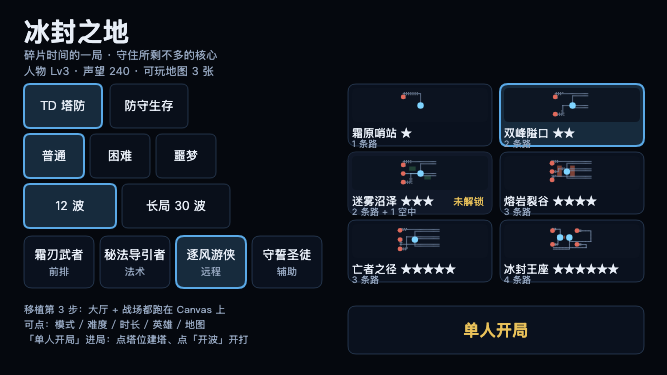
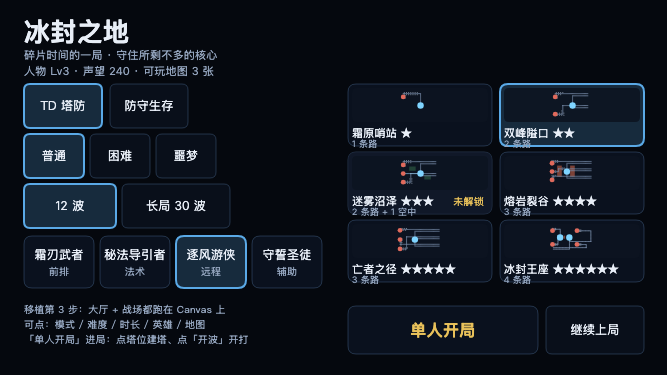
feat(minigame): 「继续上局」——把 §10.3 的随时能停接到小游戏（第 3 步第七屏）
- 三处接线：tick 里每 5 秒自动存档（结算中的局不存）+ platform.onHide 补一笔 + 大厅有存档时给「继续上局」
- 与浏览器版对齐两条口径：一局结束收掉存档、回大厅=主动放弃；存档读不出来时清掉并说一句（不留死按钮）
- 同源问题第三次出现（前两次：不记档、没传人物等级便利），所以这次按「列出所有调用点」查
- 测试坑：delete require.cache 对 ESM 无效（包被 require 时走 ESM 注册表）→ 复制成新文件名再 require 才拿到新实例
- tests/minigame-resume.test.js 3 条（布局/意图/真闭环：6 秒自动存 → 切后台 → 重开 → 接着打 → 打完收档）
- npm test 287 → 290 项；主包 15 模块 / 318 KB；本轮没碰浏览器侧代码

Changed region(s): [[0.5997, 0.8507, 0.8096, 0.9093], [0.8396, 0.8507, 0.9295, 0.9093]]

diff --git a/src/minigame/game.js b/src/minigame/game.js
@@ -12,7 +12,8 @@ import {
   towerAtSlot, update, upgradeTower, usePotion,
 } from '../match.js';
 import { createDefenseMatch, describeDefense, updateDefense } from '../defense.js';
-import { isMiniGame, onTouch, storage, viewport } from '../platform.js';
+import { isMiniGame, onHide, onTouch, storage, viewport } from '../platform.js';
+import { clearSave, hasSave, loadFromStorage, saveToStorage } from '../save.js';
 import {
   loadProfile, mapLocked, recordResult, reviveMulOf, saveProfile, startGoldOf, unlockedMaps,
 } from '../profile.js';
@@ -55,6 +56,9 @@ export function createLobbyModel(profile = loadProfile()) {
     lockedReason: locked,
     unlockedCount: new Set([...unlockedTd, ...unlockedDef]).size,
     canStart: true,
+    // §10.3「随时能停」：有存档就多给一个「继续上局」入口（浏览器版 576 行那条同源）
+    canContinue: hasSave(),
+    continueLabel: '继续上局',
     hint: null,
   };
 }
@@ -137,6 +141,7 @@ export function startMinigame({ requestAnimationFrame: raf = globalThis.requestA
       ui: { selectedSlot: null, panelSlot: null, sellArmed: false },
       extra: null,     // 结算那一下记档的收获（声望 / 升级），画面板用
       paused: false, rate: 1,
+      saveClock: 0,    // §10.3 单人局自动存档：每 5 秒一次 + 切后台补一次
     };
     applyCamera(b);
     b.model = () => ({
@@ -150,6 +155,7 @@ export function startMinigame({ requestAnimationFrame: raf = globalThis.requestA
 
   const backToLobby = () => {
     battle = null;
+    clearSave();   // 回大厅 = 主动放弃这一局（与浏览器版同一个口径：大厅不会出现「继续上局」）
     lobby = { model: { ...createLobbyModel(), ...pickLobbyKeys(lobby.model) }, layout: null };
     lobby.layout = layoutLobby(size.width, size.height, lobby.model);
   };
@@ -317,7 +323,36 @@ export function startMinigame({ requestAnimationFrame: raf = globalThis.requestA
     if (next !== lobby.model) lobby.model = next;
     lobby.layout = layoutLobby(size.width, size.height, lobby.model);
     if (action?.type === 'start' && lobby.model.canStart !== false) startMatch();
+    if (action?.type === 'continue') continueSaved();
     return action;
+  };
+
+  /**
+   * 「继续上局」：把存档读回来装进战场（§10.3 单人局无限期可恢复）。
+   * 读不出来（键在但版本/形状不对）时**不留一个点了没反应的按钮**——清掉它并说一句（§204 的口径）。
+   */
+  const continueSaved = () => {
+    const restored = loadFromStorage();
+    if (!restored) {
+      clearSave();
+      lobby.model = { ...lobby.model, canContinue: false, hint: '上一局的存档读不出来（版本或形状对不上），已清掉' };
+      lobby.layout = layoutLobby(size.width, size.height, lobby.model);
+      return null;
+    }
+    const renderer = createRenderer(canvas, { size: () => ({ w: size.width, h: size.height }) });
+    const b = {
+      m: restored, renderer, selectedTower: 'tw_arrow', message: '继续上一局', until: restored.time + 2,
+      layout: null, ui: { selectedSlot: null, panelSlot: null, sellArmed: false },
+      extra: restored.result ? {} : null, paused: false, rate: 1, saveClock: 0,
+    };
+    applyCamera(b);
+    b.model = () => ({
+      ...describeBattleModel(restored), selectedTower: b.selectedTower, paused: b.paused, rate: b.rate,
+      ui: b.ui, sheet: layoutSheet(restored, b.ui),
+    });
+    b.layout = layoutBattle(b.model());
+    battle = b;
+    return b;
   };
 
   onTouch((t) => {
@@ -330,6 +365,8 @@ export function startMinigame({ requestAnimationFrame: raf = globalThis.requestA
     tapBattle(battle, t.x, t.y);
     drawFrame();
   });
+  // 切后台 / 退出时补一笔存档（§10.3 的「随时能停」：小游戏是 wx.onHide）
+  onHide(() => { if (battle && !battle.m.result) saveToStorage(battle.m); });
 
   const drawFrame = () => {
     const { width, height } = viewport();
@@ -356,8 +393,18 @@ export function startMinigame({ requestAnimationFrame: raf = globalThis.requestA
     if (battle.paused || battle.m.result) return 0;   // 真暂停：内核一步都不走
     const steps = Math.round(seconds / TICK_STEP);
     for (let i = 0; i < steps && !battle.m.result; i += 1) update(battle.m, TICK_STEP);
+    maybeAutosave(battle, seconds);
     recordIfFinished(battle);
     return steps;
+  };
+
+  /** 自动存档（§10.3）：每 5 秒一次；已经在结算的那一局不存（§113：完结的局不该再出现「继续上局」） */
+  const maybeAutosave = (b, dt) => {
+    if (!b || b.m.result) return false;
+    b.saveClock = (b.saveClock ?? 0) + dt;
+    if (b.saveClock < 5) return false;
+    b.saveClock = 0;
+    return saveToStorage(b.m);
   };
 
   /**
@@ -376,6 +423,7 @@ export function startMinigame({ requestAnimationFrame: raf = globalThis.requestA
       unlocked: [...unlockedMaps(next, 'td'), ...unlockedMaps(next, 'defense')],
       unlockedCount: new Set([...unlockedMaps(next, 'td'), ...unlockedMaps(next, 'defense')]).size,
     };
+    clearSave();   // 一局结束就收掉存档：大厅不该再出现「继续上局」（浏览器版同源，main.js 的 maybeRecordResult）
     try { saveProfile(next); } catch { /* 存不了就只在这一次生效（§183 的提示在浏览器版那边） */ }
   };
 

diff --git a/tests/minigame-resume.test.js b/tests/minigame-resume.test.js
@@ -1,0 +1,91 @@
+// 小游戏的「继续上局」（§10.3「随时能停」）：自动存档 / 切后台补存 / 关掉再打开能接着打。
+// 存档本身是浏览器版现成的 `save.js`（序列化 + 反序列化 + hasSave 的「读得出来才算有」），
+// 这份用例盯的是**小游戏这条新路径有没有把三处接线接上**。
+import test from 'node:test';
+import assert from 'node:assert/strict';
+import { copyFileSync, mkdtempSync } from 'node:fs';
+import { createRequire } from 'node:module';
+import { tmpdir } from 'node:os';
+import { join } from 'node:path';
+
+import { installFakeWx } from '../tools/fake-wx.mjs';
+import { applyLobbyAction, layoutLobby } from '../src/minigame/lobby.js';
+import { emptyProfile } from '../src/profile.js';
+
+const OUT = mkdtempSync(join(tmpdir(), 'ff-mini-resume-'));
+process.env.FF_MINIGAME_OUT = OUT;
+
+/** 把打好的包复制成一个**新文件名**再 require：ESM 缓存按路径走，不换名就还是同一个模块实例 */
+const loadFreshApp = (require, n) => {
+  const p = join(OUT, `game-${n}.js`);
+  copyFileSync(join(OUT, 'game.js'), p);
+  require(p);
+  require(p);   // 同一份文件第二次 require 走缓存，都是同一个 app
+  return globalThis.__frostfallLobby;
+};
+
+const lobbyModel = (over = {}) => ({
+  mode: 'td', map: 'map_01', difficulty: 'normal', length: 'short', hero: 'hero_warrior',
+  profile: emptyProfile(), unlocked: ['map_01'], locked: {}, lockedReason: {},
+  unlockedCount: 1, canStart: true, canContinue: false, hint: null, ...over,
+});
+
+test('小游戏大厅：有存档时才出现「继续上局」，它不会挤掉「单人开局」', () => {
+  const without = layoutLobby(667, 375, lobbyModel());
+  assert.ok(!without.byId.continue, '没有存档就不该有「继续上局」');
+  assert.equal(without.byId.start.w, 296, '没有它时「单人开局」占满右边');
+
+  const withSave = layoutLobby(667, 375, lobbyModel({ canContinue: true }));
+  assert.ok(withSave.byId.continue, '有存档要给出口');
+  assert.ok(withSave.byId.continue.h >= 44 && withSave.byId.continue.w >= 44, '热区 ≥44');
+  assert.ok(withSave.byId.start.x + withSave.byId.start.w <= withSave.byId.continue.x,
+    '两个按钮不许压在一起');
+  assert.ok(withSave.byId.continue.x + withSave.byId.continue.w <= 667, '别越界');
+});
+
+test('小游戏大厅：点「继续上局」只表达意图（真正装存档是 app 的事），没存档时给一句人话', () => {
+  const asked = applyLobbyAction(lobbyModel({ canContinue: true }), { type: 'continue' });
+  assert.equal(asked.continueRequested, true);
+  const none = applyLobbyAction(lobbyModel(), { type: 'continue' });
+  assert.match(none.hint, /没有可以继续的一局/);
+});
+
+test('小游戏存档三处接线：每 5 秒自动存 + 切后台补一笔 + 关掉再打开能接着打', async () => {
+  await import('../tools/build-minigame.mjs');
+  const fake = installFakeWx();
+  try {
+    const require = createRequire(import.meta.url);
+    const app = loadFreshApp(require, 1);
+    app.startMatch();
+    const m = app.match();
+
+    app.tick(4);
+    assert.equal(globalThis.wx.getStorageSync('frostfall:save'), '', '不到 5 秒不该有存档');
+    app.tick(2);
+    assert.notEqual(globalThis.wx.getStorageSync('frostfall:save'), '', '每 5 秒要自动存一次');
+    const t0 = m.time;
+    assert.ok(t0 >= 5.9, `跑够 6 秒（实际 ${t0.toFixed(1)}）`);
+
+    // 切后台补一笔（小游戏是 wx.onHide）
+    app.tick(1);
+    fake.fireHide();
+    const saved = JSON.parse(globalThis.wx.getStorageSync('frostfall:save'));
+    assert.ok(saved && saved.v, '存档要有版本号（§139/§204 的「读得出来才算有」）');
+
+    // 「关掉再打开」：同一份包、全新模块实例 → 大厅应该给出「继续上局」
+    const reopened = loadFreshApp(require, 2);
+    assert.equal(reopened.screen(), 'lobby');
+    assert.equal(reopened.getModel().canContinue, true, '有存档时大厅要给「继续上局」');
+    const cont = reopened.layout().byId.continue;
+    reopened.tap(cont.x + cont.w / 2, cont.y + cont.h / 2);
+    assert.equal(reopened.screen(), 'battle', '点「继续上局」要真的回到战场');
+    assert.ok(reopened.match().time >= t0, `接着上一局的进度（存档 ${t0.toFixed(1)} → 回来 ${reopened.match().time.toFixed(1)}）`);
+
+    // 打完这一局：存档要收掉，大厅不该再出现「继续上局」
+    reopened.match().result = 'win';
+    reopened.drawFrame();
+    assert.equal(globalThis.wx.getStorageSync('frostfall:save'), '', '一局结束就收掉存档');
+    reopened.backToLobby();
+    assert.equal(reopened.getModel().canContinue, false, '回大厅后不该再给「继续上局」');
+  } finally { fake.uninstall(); }
+});

diff --git a/src/minigame/lobby.js b/src/minigame/lobby.js
@@ -77,8 +77,13 @@ export function layoutLobby(w, h, model = {}) {
   });
 
   // 开始按钮：战斗场景还没接上，**按钮上就写明**（不给一个点了没反应的假按钮）
-  raw.push(btn('start', 348, 306, 296, 48,
+  // 有存档时右边再挤一个「继续上局」（§10.3：杀进程重开进度不丢）——两个都 ≥44 高
+  const startW = model.canContinue ? 190 : 296;
+  raw.push(btn('start', 348, 306, startW, 48,
     model.canStart ? '单人开局' : '单人开局（第 4 步接入）', { type: 'start' }, { disabled: !model.canStart }));
+  if (model.canContinue) {
+    raw.push(btn('continue', 546, 306, 98, 48, model.continueLabel ?? '继续上局', { type: 'continue' }));
+  }
 
   // 统一映射：设计单位 → 画布坐标（等比缩放 + 居中）。命中测试与绘制都用这一份，天然同源。
   const items = raw.map((it) => ({ ...it, ...map(it.x, it.y, it.w, it.h) }));
@@ -247,6 +252,12 @@ export function applyLobbyAction(model, action, { unlocked = [], lockedReason = 
         return next;
       }
       next.started = true;
+      return next;
+    }
+    case 'continue': {
+      // 交给 app 处理（它才知道怎么把存档装进战场）；这里只把意图记下来
+      if (!next.canContinue) { next.hint = '没有可以继续的一局'; return next; }
+      next.continueRequested = true;
       return next;
     }
     default: return model;

diff --git a/docs/STATUS.md b/docs/STATUS.md
@@ -21,7 +21,7 @@
 ## 2. 一条命令复跑全部验证
 
 ```bash
-npm test        # 287 项：数值 / 波次 / 经济 / 装备 / 天赋 / 技能细节 / 存档 / 联机 / 快速匹配 / 触觉反馈 / 摇杆指令 / 溅射衰减 / 药品计数 / 解锁来源与流水 / 野外区分区 / 亚格渲染 / 克制提示 / 局内资源不外流 / 仇恨 1 秒 / 野外区文案 / 战绩分模式 / 面板可见性 / 浮层收起 / 房间码提示 / 空房保留窗口 / 联机指令出口（handler 逐个查）/ 畸形指令与限速 / 克制表与枚举对齐 / 联机镜像不落本地存档（§113） / 大厅按模式给选项（§115：防守没有「局内时长」） / 低特效档真的关脉冲（§116） / 怪物光环按半径结算（§117） / Boss 光环按地图开关（§118） / 逻辑帧步长只有一个定义（§119） / 协议版本两侧校验（§120） / 畸形 URL 参数不崩服务端（§121） / 别人的名字不执行（§122） / 名字长度截断（§122） / 畸形指令值不崩服务端（§123） / 房间码不可枚举（§124） / 名单不广播 uid（§125） / 调试钩子默认关（§126）与「只在本地生效」（§197）/  免费期无付费入口（§128） / 联机结算面板也写「声望 +N」（§130） / 通关转无尽的出口（§131） / 精研技能书真的 +1 级（§132） / 狂战药剂真的持续 30 秒（§133） / 防守模式 buff 生效与疾风步移速（§134） / 两模式英雄 tick 职责对齐（§135） / 亡语分裂在防守里也生效（§136） / 防守的怪也吃减速眩晕 DoT（§137） / 防守内容不许带未实现能力（§138） / 「继续上局」只在**真读得出来**时出现（§139 + §204） /  **疾行药剂在两个模式都生效（§144） / **回城冷却进存档且真的走满 30 秒（§147） / **联机修塔真的生效、TD 专属指令在防守房被拒（§148） / **联机结算的伤害占比不为空、防守占比条写中文名（§149） / **结算面板的掉落栏写中文名（§151） / **快速匹配排队时写明「在等」（§152） / **新手引导的门槛与「重看」（§153） / **文案里的数字与数据表对账（§155） / ****临时端口串门与僵尸根因（§157）** / **4★-6★ 图能从大厅选到（§158） / **真机视口下大厅动作行粘底（§159） / **结算面板出口也粘底（§160） / **真机视口下防守 HUD 紧凑排布（§161） / **真机视口下引导条不压操作行（§162） / **联机长局镜像换成 30 波表（§163）/**§130 偶发红改成确定性（§164） / **联机怪物血条分母（§165）** / **联机房英雄职业进配置（§166）** / **浸泡不变量补五项（§167） / **真机视口下防守人体工学（§168）** / **§2.2 地图表逐列对账（§169） / **其余五张数值表逐列对账（§170） / **真机上的双指缩放与双击回核心（§171） / **把量出的偏差写回设计文档（§172） / **复跑三张数字表（§173） / **协议消息类型两边都要有人用（§174） / **零读者的导出扫干净（§175）** / **用到的 class 都有样式规则（§176）** / **客户端开局参数归一化（§177：坏 URL 不白屏 + 不污染档案）** / **缺 seed 的房间不再是常数种子（§177）** / **提示音在真机手势里解锁、日志不再谎报（§178）** / **真机手势卫生：连点技能键/长按不再被浏览器抢走（§180）** / **HUD 按安全区收边、不再压进刘海（§181）** / **冒烟的 CDP 请求加上限、不再偶发挂死（§182）** / **存不了档时说一声（§183）** / **大厅里不再偷偷打那一局（§184：不跑模拟、不出怪、不记档）** / **竖屏兜底「请横屏」（§185）**…
+npm test        # 290 项：数值 / 波次 / 经济 / 装备 / 天赋 / 技能细节 / 存档 / 联机 / 快速匹配 / 触觉反馈 / 摇杆指令 / 溅射衰减 / 药品计数 / 解锁来源与流水 / 野外区分区 / 亚格渲染 / 克制提示 / 局内资源不外流 / 仇恨 1 秒 / 野外区文案 / 战绩分模式 / 面板可见性 / 浮层收起 / 房间码提示 / 空房保留窗口 / 联机指令出口（handler 逐个查）/ 畸形指令与限速 / 克制表与枚举对齐 / 联机镜像不落本地存档（§113） / 大厅按模式给选项（§115：防守没有「局内时长」） / 低特效档真的关脉冲（§116） / 怪物光环按半径结算（§117） / Boss 光环按地图开关（§118） / 逻辑帧步长只有一个定义（§119） / 协议版本两侧校验（§120） / 畸形 URL 参数不崩服务端（§121） / 别人的名字不执行（§122） / 名字长度截断（§122） / 畸形指令值不崩服务端（§123） / 房间码不可枚举（§124） / 名单不广播 uid（§125） / 调试钩子默认关（§126）与「只在本地生效」（§197）/  免费期无付费入口（§128） / 联机结算面板也写「声望 +N」（§130） / 通关转无尽的出口（§131） / 精研技能书真的 +1 级（§132） / 狂战药剂真的持续 30 秒（§133） / 防守模式 buff 生效与疾风步移速（§134） / 两模式英雄 tick 职责对齐（§135） / 亡语分裂在防守里也生效（§136） / 防守的怪也吃减速眩晕 DoT（§137） / 防守内容不许带未实现能力（§138） / 「继续上局」只在**真读得出来**时出现（§139 + §204） /  **疾行药剂在两个模式都生效（§144） / **回城冷却进存档且真的走满 30 秒（§147） / **联机修塔真的生效、TD 专属指令在防守房被拒（§148） / **联机结算的伤害占比不为空、防守占比条写中文名（§149） / **结算面板的掉落栏写中文名（§151） / **快速匹配排队时写明「在等」（§152） / **新手引导的门槛与「重看」（§153） / **文案里的数字与数据表对账（§155） / ****临时端口串门与僵尸根因（§157）** / **4★-6★ 图能从大厅选到（§158） / **真机视口下大厅动作行粘底（§159） / **结算面板出口也粘底（§160） / **真机视口下防守 HUD 紧凑排布（§161） / **真机视口下引导条不压操作行（§162） / **联机长局镜像换成 30 波表（§163）/**§130 偶发红改成确定性（§164） / **联机怪物血条分母（§165）** / **联机房英雄职业进配置（§166）** / **浸泡不变量补五项（§167） / **真机视口下防守人体工学（§168）** / **§2.2 地图表逐列对账（§169） / **其余五张数值表逐列对账（§170） / **真机上的双指缩放与双击回核心（§171） / **把量出的偏差写回设计文档（§172） / **复跑三张数字表（§173） / **协议消息类型两边都要有人用（§174） / **零读者的导出扫干净（§175）** / **用到的 class 都有样式规则（§176）** / **客户端开局参数归一化（§177：坏 URL 不白屏 + 不污染档案）** / **缺 seed 的房间不再是常数种子（§177）** / **提示音在真机手势里解锁、日志不再谎报（§178）** / **真机手势卫生：连点技能键/长按不再被浏览器抢走（§180）** / **HUD 按安全区收边、不再压进刘海（§181）** / **冒烟的 CDP 请求加上限、不再偶发挂死（§182）** / **存不了档时说一声（§183）** / **大厅里不再偷偷打那一局（§184：不跑模拟、不出怪、不记档）** / **竖屏兜底「请横屏」（§185）**…
 npm run soak    # 180 局全组合浸泡：运行期不变量 + 存档不动点 + 客户端镜像一致性
 npm run smoke   # 378 条真浏览器断言（**三个视口**、十一个面；含快速匹配、内存告警降级、真按下的短震动链路、防守摇杆拖动、点空地的塔位提示、克制提示与护甲预告、野外区掉落加成、防守战绩口径、日志面板让位/恢复、跨局浮层收起、攻城图的修塔按钮、秘传技能书的技能栏变化、优先级/速度/围墙/重置进度、HUD 数值跟随（7+3 处）、塔面板 X 与标题、再开一局、长局 30 波 HUD、真机视口下的轮盘/塔面板、房间码提示与镜像对齐、进不去房间转单人继续、被动掉线自动重连、**六条联机指令真的到服务端**、**§113 联机点「回大厅/再开一局」真的离房**、**§114 联机不假装暂停/加速、掉线写清 5 分钟**/**§115 防守模式不摆「局内时长」假选项**/**§116 低特效档真的关脉冲**/**§145 每次版式体检都查「两块 HUD 浮层不许叠在一起」**/**§153 新手引导门槛与「重看」（§153）/**设置面板按模式取舍选项（§154）/**文案里的数字与数据表对账（§155）**/**临时端口串门与僵尸根因（§157）/**4★-6★ 图能从大厅选到（§158）/**真机视口下大厅动作行粘底（§159）/**结算面板出口也粘底（§160）**/**真机视口下防守 HUD 紧凑排布（§161）**/**真机视口下引导条不压操作行（§162）/**联机长局镜像换成 30 波表（§163）/**§130 偶发红改成确定性（§164）/**联机怪物血条分母（§165）**/**联机房英雄职业进配置（§166）**/**浸泡不变量补五项（§167）/**真机视口下防守人体工学（§168）**/**§2.2 地图表逐列对账（§169）/**其余五张数值表逐列对账（§170）/**真机上的双指缩放与双击回核心（§171）**/**客户端坏 URL 不白屏（§177）**/**提示音在真机策略下真的响了（§178）**/**真机手势卫生（§180）**/**HUD 不进刘海安全区（§181）**/**大厅不跑模拟（§184）**/**竖屏有「请横屏」兜底（§185）**/**低端 4G 模拟下首屏 ≤3 秒（§186）** / **「再开一局」连打的第二局也记档（§188）** / **浏览器里真的把 12 波打完、结算与档案都对（§189）** / **防守也真的守满 4 轮；城堡陷落后「继续（无尽）」不再挂着（§190）** / **长局 30 波也在浏览器里真的打完（§191，含一条参考打法在 4★ 长局末波输掉的观测）** / **中途加入已在打的房（§192）** / **§130 那条「声望 +N」的偶发红改成确定性（§193：根因是房间空着时就记了结算）** / **`sim` 调试钩子只在本地生效（§197：补上 §126 那条「非 URL 开关」的规矩）** / **连打不涨：6 局 DOM/堆都平，并把「每局不长 DOM」钉进冒烟（§198）** / **服务端不再攒退役房间（§199：删掉只写不读的 `stopped` 表）** / **画布内容与「画面在动」也有检查了（§200–§202）** / **第三个视口 568×320（§203）** / **「能读的才算有存档」补齐后半（§204）** / **档案形状归一化（§205）** / **日志面板的 innerHTML 先转义（§206：那一处最容易新增玩家名字）**
 npm run waves   # §8.5 逐波余量（4 人基准）
@@ -194,7 +194,7 @@ npm run bench / bandwidth   # 容量 / 带宽预算（§110/§111：两个工具
 |---|---|---|---|
 | 1 | **按 `game-design.md` 的已确认需求开发** | ✅ | 设计文档里**打勾的验收清单**逐条有实现与检查（见 §1 那张表）；**所有数值表逐列对过账**（§169/§170，改一处就红）；**原「等拍板」的 33 条已全部拍板并落地**（§3.1 + 验证记录 §207–§209；文档类的 20 条在附录 B/C 与对应小节补了口径） |
 | 2 | **一直开发到能玩为止** | ✅ | 浏览器里**真的**跑通过整条链路：TD 短局通关（§189：7.4 分钟、结算面板、记档、解锁 map_02）、防守守满 4 轮转无尽（§190）、**长局 30 波**（§191：32.5 分钟）；联机建房 / 快速匹配 / 中途加入第 3 波（§192）/ 掉线重连 / 离场（§102/§113/§114）；三个视口（1334×750 / 667×375 / **568×320**）的版式与人体工学（§203、§145）；手机竖屏有「请横屏」兜底（§185） |
-| 3 | **自己去验证错误** | ✅ | 验证记录 **§1–§220**：每条发现都带「一个能失败的检查」+ 变异反证；最新一轮全量复跑：`npm test` **287 项** · `npm run smoke` **378 条**（三个视口、十一个面）· `soak` 180 局（119 胜 61 负，不变量一条没破）· `matrix` 全绿（**并检查首发三图普通档 8-12 分钟**）· `defense` 12.7 分钟/4 轮 · `waves` 12/12 · `defense-matrix` 36 局守住 22（**验收线 8 格全过**）· `bandwidth` 6.61 KB/s（预算 15）· `bench` 1699k 实体·帧/秒 · `tutorial` 3/3 达标 |
+| 3 | **自己去验证错误** | ✅ | 验证记录 **§1–§221**：每条发现都带「一个能失败的检查」+ 变异反证；最新一轮全量复跑：`npm test` **290 项** · `npm run smoke` **378 条**（三个视口、十一个面）· `soak` 180 局（119 胜 61 负，不变量一条没破）· `matrix` 全绿（**并检查首发三图普通档 8-12 分钟**）· `defense` 12.7 分钟/4 轮 · `waves` 12/12 · `defense-matrix` 36 局守住 22（**验收线 8 格全过**）· `bandwidth` 6.61 KB/s（预算 15）· `bench` 1699k 实体·帧/秒 · `tutorial` 3/3 达标 |
 
 **仍然在别人手里的（不是欠债，是等输入）**：
 

diff --git a/README.md b/README.md
@@ -12,7 +12,7 @@
 M0.5 可玩原型（TD 塔防首发切片）：等距伪 3D 横屏战场、12 波、4 种塔各 3 级、4 英雄（含 2 主动技 + 技能书解锁第 3 技）、9 种怪物、装备掉落与一键合成、商店与药品、暂停与加速。
 
 ```bash
-npm test        # 287 项（含小游戏打包产物的检查）：数值 / 波次 / 经济 / 人数缩放（§1.6：怪量·生命·金币，联机房按名册定档）/ 地形（§2.3：岩浆挡弹道、沼泽减速与射程 −1、高地射程 +1.5 攻击 +10%）/ 难度四列（§2.4：生命·攻击·出怪速度·掉落）/ 局外人物等级（初始金币 + 复活加速）/ 武器 4 类（单体/群伤/减速/对空，特性真的生效）· 装备（主属性与词条真的进战斗 · 强化 +1..+5 · 自由换装 · 出售返还）/ DPS 线（裸装 ≤2.5 座塔 + **满装 ≤4 座**，§3.1 #3）/ 掉落节奏（含橙装来源拆账）/ 概率上限与闪避 / 容错率 / 整局 / 天赋接线（钢铁意志·咒术精通·法力涌动）/ 技能细节（制裁之锤对 Boss 眩晕减半、猎人印记加成英雄普攻）/ 商店（3 格背包·波次中读条 3 秒·回城卷轴·**防守商店只在基地内**〔§3.1 #14〕·群疗符禁售〔#20〕）/ 指令表双向对齐（含 **`leave`**）/ 主动退房与掉线的区别（§3.1 #23）/ 设备级 token：冒用 uid 被拒 + 本机换身份重连（§3.1 #24）/ **深链进锁着的图按档案归一化**（§3.1 #29）/ 中途加入窗口（§12.3）/ 快速匹配（§1.5：分桶·满员即开·45 秒窗口）/ 攻击优先级（§8.3 四种模式）/ 克制提示（§3.8·§6.2：提示由克制表算出）/ 克制表与枚举对齐（§6.2）/ 实体传送点（§2.6）/ 上次配置一键开局（§2.1） / 局内资源不外流（§12.6）/ 战绩分模式（§12.6：TD 最快通关 / 防守守住轮次）/ 仇恨 1 秒窗口（§7.7：脱离后还要被追打 1 秒）/ 野外区文案（§2.6：区名 + 等级段 + 掉落加成）/ 面板可见性（§14.3：日志让位由 CSS 表达）/ 跨局浮层收起（§95：开新局前收掉轮盘与塔面板）/ 房间码没命中的提示与房间配置对齐（§1.5 / §102）/ 空房保留 5 分钟边界（§10.3）/ 联机指令出口（§10.1：键盘与按钮同一条路，且每个 handler 都有 net 分支）/ 畸形指令与限速（§12.7 / §108）/ 防守摇杆指令（§1.9.1·§10.1：目标格算法 + 贴墙退化）/ 溅射距离衰减（§7.1：落点 100% → 边缘 50%）/ 野外区分区掉落（§2.6·§12.8：dropBonus）/ 解锁来源与货币流水（§1.7.3）/ 亚格渲染（§10.3：怪与人物按 dist/carry 画，不再跳格）/ 快照序号与补发（§10.3 序号跳跃 → 请求全量） / 渲染（相机·小地图·地图缩略图）/ HUD / 联机 / 带宽 / 重连 / 存档 / 解锁 / 队伍色 / 预测 / 性能护栏 / 不卡死（每局都必须能结束）/ 复活保护 / 触觉反馈 / 药品计数（§5.5） / 联机镜像不落本地存档（§113） / 大厅按模式给选项（§115：防守没有「局内时长」） / 低特效档真的关脉冲（§116） / 怪物光环按半径结算（§117） / Boss 光环按地图开关（§118） / 逻辑帧步长只有一个定义（§119） / 协议版本两侧校验（§120） / 畸形 URL 参数不崩服务端（§121） / 别人的名字不执行（§122） / 名字长度截断（§122） / 畸形指令值不崩服务端（§123） / 房间码不可枚举（§124） / 名单不广播 uid（§125） / 调试钩子默认关（§126） / 免费期无付费入口（§128） / 联机结算面板也写「声望 +N」（§130） / 通关转无尽的出口（§131） / 精研技能书真的 +1 级（§132） / 狂战药剂真的持续 30 秒（§133） / 防守模式 buff 生效与疾风步移速（§134） / 两模式英雄 tick 职责对齐（§135） / 亡语分裂在防守里也生效（§136） / 防守的怪也吃减速眩晕 DoT（§137） / 防守内容不许带未实现能力（§138） / **疾行药剂在两个模式都生效（§144）** / **回城冷却进存档且真的走满 30 秒（§147）** / **联机修塔真的生效、TD 专属指令在防守房被拒（§148） / **联机结算的伤害占比不为空、防守占比条写中文名（§149） / **结算面板的掉落栏写中文名（§151） / **快速匹配排队时写明「在等」（§152） / **新手引导的门槛与「重看」（§153）** / **设置面板按模式取舍选项（§154）** / **文案里的数字与数据表对账（§155） / ****临时端口串门与僵尸 npm test 的根因（§157）** / **4★-6★ 图能从大厅选到（§158） / **真机视口下大厅动作行粘底（§159） / **结算面板出口也粘底（§160） / **真机视口下防守 HUD 换紧凑排布（§161） / **真机视口下引导条不压操作行（§162） / **联机长局的镜像换成 30 波表（§163） / **§130 偶发红改成确定性（§164） / **联机怪物血条的分母由服务端给（§165） / **联机房的英雄职业也进配置（§166） / **浸泡的不变量补五项（§167） / **真机视口下防守人体工学也量了（§168） / **§2.2 地图表逐列对账（§169） / **其余五张数值表逐列对账（§170） / **真机上的双指缩放与双击回核心（§171） / **把量出的偏差写回设计文档（§172） / **复跑三张数字表（§173） / **协议消息类型两边都要有人用（§174） / **零读者的导出扫干净（§175）** / **用到的 class 都有样式规则（§176）** / **客户端开局参数归一化：坏 URL 不再白屏、不再污染档案（§177）** / **提示音在真机手势里解锁、日志不再谎报（§178）** / **真机手势卫生：连点技能键不再触发双击缩放（§180）** / **HUD 不再压进刘海（§181：按 `env(safe-area-inset-*)` 收边）** / **存不了档时说一声（§183）** / **大厅里不再偷偷打那一局（§184：不跑模拟、不记档）** / **竖屏兜底「请横屏」（§185）**
+npm test        # 290 项（含小游戏打包产物的检查）：数值 / 波次 / 经济 / 人数缩放（§1.6：怪量·生命·金币，联机房按名册定档）/ 地形（§2.3：岩浆挡弹道、沼泽减速与射程 −1、高地射程 +1.5 攻击 +10%）/ 难度四列（§2.4：生命·攻击·出怪速度·掉落）/ 局外人物等级（初始金币 + 复活加速）/ 武器 4 类（单体/群伤/减速/对空，特性真的生效）· 装备（主属性与词条真的进战斗 · 强化 +1..+5 · 自由换装 · 出售返还）/ DPS 线（裸装 ≤2.5 座塔 + **满装 ≤4 座**，§3.1 #3）/ 掉落节奏（含橙装来源拆账）/ 概率上限与闪避 / 容错率 / 整局 / 天赋接线（钢铁意志·咒术精通·法力涌动）/ 技能细节（制裁之锤对 Boss 眩晕减半、猎人印记加成英雄普攻）/ 商店（3 格背包·波次中读条 3 秒·回城卷轴·**防守商店只在基地内**〔§3.1 #14〕·群疗符禁售〔#20〕）/ 指令表双向对齐（含 **`leave`**）/ 主动退房与掉线的区别（§3.1 #23）/ 设备级 token：冒用 uid 被拒 + 本机换身份重连（§3.1 #24）/ **深链进锁着的图按档案归一化**（§3.1 #29）/ 中途加入窗口（§12.3）/ 快速匹配（§1.5：分桶·满员即开·45 秒窗口）/ 攻击优先级（§8.3 四种模式）/ 克制提示（§3.8·§6.2：提示由克制表算出）/ 克制表与枚举对齐（§6.2）/ 实体传送点（§2.6）/ 上次配置一键开局（§2.1） / 局内资源不外流（§12.6）/ 战绩分模式（§12.6：TD 最快通关 / 防守守住轮次）/ 仇恨 1 秒窗口（§7.7：脱离后还要被追打 1 秒）/ 野外区文案（§2.6：区名 + 等级段 + 掉落加成）/ 面板可见性（§14.3：日志让位由 CSS 表达）/ 跨局浮层收起（§95：开新局前收掉轮盘与塔面板）/ 房间码没命中的提示与房间配置对齐（§1.5 / §102）/ 空房保留 5 分钟边界（§10.3）/ 联机指令出口（§10.1：键盘与按钮同一条路，且每个 handler 都有 net 分支）/ 畸形指令与限速（§12.7 / §108）/ 防守摇杆指令（§1.9.1·§10.1：目标格算法 + 贴墙退化）/ 溅射距离衰减（§7.1：落点 100% → 边缘 50%）/ 野外区分区掉落（§2.6·§12.8：dropBonus）/ 解锁来源与货币流水（§1.7.3）/ 亚格渲染（§10.3：怪与人物按 dist/carry 画，不再跳格）/ 快照序号与补发（§10.3 序号跳跃 → 请求全量） / 渲染（相机·小地图·地图缩略图）/ HUD / 联机 / 带宽 / 重连 / 存档 / 解锁 / 队伍色 / 预测 / 性能护栏 / 不卡死（每局都必须能结束）/ 复活保护 / 触觉反馈 / 药品计数（§5.5） / 联机镜像不落本地存档（§113） / 大厅按模式给选项（§115：防守没有「局内时长」） / 低特效档真的关脉冲（§116） / 怪物光环按半径结算（§117） / Boss 光环按地图开关（§118） / 逻辑帧步长只有一个定义（§119） / 协议版本两侧校验（§120） / 畸形 URL 参数不崩服务端（§121） / 别人的名字不执行（§122） / 名字长度截断（§122） / 畸形指令值不崩服务端（§123） / 房间码不可枚举（§124） / 名单不广播 uid（§125） / 调试钩子默认关（§126） / 免费期无付费入口（§128） / 联机结算面板也写「声望 +N」（§130） / 通关转无尽的出口（§131） / 精研技能书真的 +1 级（§132） / 狂战药剂真的持续 30 秒（§133） / 防守模式 buff 生效与疾风步移速（§134） / 两模式英雄 tick 职责对齐（§135） / 亡语分裂在防守里也生效（§136） / 防守的怪也吃减速眩晕 DoT（§137） / 防守内容不许带未实现能力（§138） / **疾行药剂在两个模式都生效（§144）** / **回城冷却进存档且真的走满 30 秒（§147）** / **联机修塔真的生效、TD 专属指令在防守房被拒（§148） / **联机结算的伤害占比不为空、防守占比条写中文名（§149） / **结算面板的掉落栏写中文名（§151） / **快速匹配排队时写明「在等」（§152） / **新手引导的门槛与「重看」（§153）** / **设置面板按模式取舍选项（§154）** / **文案里的数字与数据表对账（§155） / ****临时端口串门与僵尸 npm test 的根因（§157）** / **4★-6★ 图能从大厅选到（§158） / **真机视口下大厅动作行粘底（§159） / **结算面板出口也粘底（§160） / **真机视口下防守 HUD 换紧凑排布（§161） / **真机视口下引导条不压操作行（§162） / **联机长局的镜像换成 30 波表（§163） / **§130 偶发红改成确定性（§164） / **联机怪物血条的分母由服务端给（§165） / **联机房的英雄职业也进配置（§166） / **浸泡的不变量补五项（§167） / **真机视口下防守人体工学也量了（§168） / **§2.2 地图表逐列对账（§169） / **其余五张数值表逐列对账（§170） / **真机上的双指缩放与双击回核心（§171） / **把量出的偏差写回设计文档（§172） / **复跑三张数字表（§173） / **协议消息类型两边都要有人用（§174） / **零读者的导出扫干净（§175）** / **用到的 class 都有样式规则（§176）** / **客户端开局参数归一化：坏 URL 不再白屏、不再污染档案（§177）** / **提示音在真机手势里解锁、日志不再谎报（§178）** / **真机手势卫生：连点技能键不再触发双击缩放（§180）** / **HUD 不再压进刘海（§181：按 `env(safe-area-inset-*)` 收边）** / **存不了档时说一声（§183）** / **大厅里不再偷偷打那一局（§184：不跑模拟、不记档）** / **竖屏兜底「请横屏」（§185）**
 npm run selfplay  # 无头打一整局，打印每波推进与结算（默认 4 人基准；FF_PLAYERS=1 切单人档，§1.6）
 npm run bandwidth # 带宽实测（默认 8 秒，可传秒数）
 npm run bench     # 容量实测（默认 200 实体 × 600 tick；§111 起：过程里场上掉到目标的 90% 以下就 exit 1，不再拿空场的吞吐当结论）

diff --git a/docs/minigame-port.md b/docs/minigame-port.md
@@ -94,6 +94,7 @@ npm run minigame         # 先打包再跑本地验收（假 wx）
 * 输入走 `platform.onTouch`（小游戏 = 全局 `wx.onTouchStart`）。
 * **「单人开局」是真的能进局的**（战场见 5.2）。写大厅那一版时它还是灰的、按钮上写着「第 4 步接入」——
   与其摆一个点了没反应的假按钮，不如把这件事写在脸上（口径见 STATUS §3.1 第 2 条：不给玩家假选项）。
+* **有存档时右边多一个「继续上局」**（§10.3「随时能停」，见 5.2.5）。
 
 **怎么复跑**：`npm run minigame`（打包 + 假 wx 验收，含「大厅真的画出来了」与「触摸能选中」两条）
 · `npm run minigame:preview`（本机 Chrome 出样张，就是上面那张图）· `npm test`（7 条大厅用例：
@@ -110,10 +111,9 @@ npm run minigame         # 先打包再跑本地验收（假 wx）
 * **现在能玩的**：点塔位 → 建造面板选塔种（5.2.1）、点已建的塔 → 塔面板升级/出售/优先级/修塔（5.2.1）、
   底部一排快捷改默认塔种、点「开波」提前开打、点技能键放技能、点「回大厅」退回去；
   结算出来之后「开波」变成「再开一局」。
-* **还没搬过来的**（浏览器版有）：暂停与倍速、拖动与双指缩放、
-  **防守模式**（跟随相机 + 摇杆 + 另一套 HUD）、新手引导条，以及「继续上局」（读档续玩）。
+* **还没搬过来的**（浏览器版有）：拖动与双指缩放、**防守模式**（跟随相机 + 摇杆 + 另一套 HUD）、新手引导条。
   防守那一格现在**明写着还没接**：大厅切到防守时「单人开局」会给出理由，而不是开一局 TD 糊弄过去。
-  剩下这几屏按玩家每局都会走一遍的顺序：**设置 + 暂停/倍速 → 继续上局 → 防守 HUD（含摇杆）→ 引导条**。
+  剩下这几屏按玩家每局都会走一遍的顺序：**防守 HUD（含摇杆）→ 引导条 → 拖动与双指缩放**。
 
 ### 5.2.1 建造与塔面板（已完成 · 2026-09-23）
 
@@ -205,3 +205,23 @@ npm run smoke             # 378 条真浏览器断言（浏览器那一侧的界
 
 顺带修了一处「加了按钮忘了收顶栏」的排版问题：倍速键一开始压住了顶栏的「核心 3000/3000」，
 样张里一眼可见；现在顶栏收窄到 x=368、里面几格的间距跟着重排，并有用例盯着「按钮不压顶栏、不压胶囊区」。
+
+### 5.2.5 「继续上局」（已完成 · 2026-09-23）
+
+§10.3 的「随时能停」在浏览器版是**每 5 秒自动存档 + 切后台补一笔 + 大厅给一个「继续上局」**。
+存档本身（`save.js` 的序列化 / 反序列化 / 「读得出来才算有」）早就走平台适配层了，缺的是小游戏这条路径上的**三处接线**：
+
+| 接线 | 在哪 | 为什么以前漏了 |
+|---|---|---|
+| 每 5 秒自动存 | `tick()` 里 `maybeAutosave()`（累计 5 秒存一次，结算中的局不存） | 这一整套原来只在 `main.js` 里 |
+| 切后台补一笔 | `platform.onHide` → `saveToStorage()` | 小游戏是 `wx.onHide`，浏览器是 `visibilitychange + pagehide` |
+| 大厅「继续上局」 | 有存档时右边多一个按钮（挤掉「单人开局」的宽度，两个都 ≥44） | 大厅这一屏是从零重画的，没有继承浏览器版那个按钮 |
+
+两处**故意对齐浏览器版**的口径：**一局结束就收掉存档**（不然大厅会出现「继续上局」→ 点进去是刚打完的那局）、
+**回大厅 = 主动放弃这一局**（同样收掉存档）。存档读不出来时（版本/形状对不上）**不留一个点了没反应的按钮**：
+清掉它并说一句（§204 的口径）。
+
+**验收**：`tests/minigame-resume.test.js` 三件——大厅布局（有/没有存档两种宽度、热区、不越界）、
+点「继续上局」只表达意图、以及一条**真闭环**：跑 6 秒（自动存档）→ 切后台补一笔 →
+把包复制成新文件名重新 require（模拟「关掉再打开」，ESM 缓存按路径走，不换名就还是同一个实例）→
+大厅出现「继续上局」→ 点进去时间接着上一局 → 打完这局存档自动收掉、大厅不再给入口。
